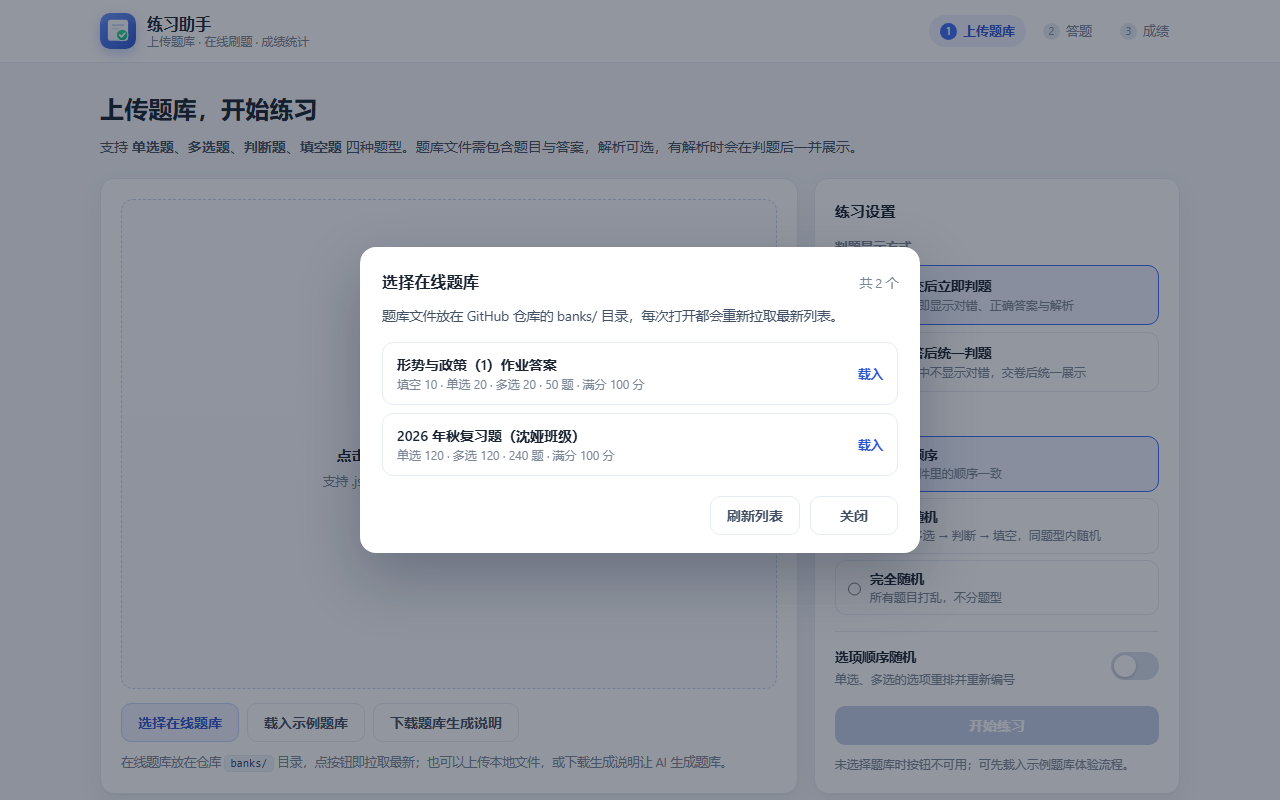
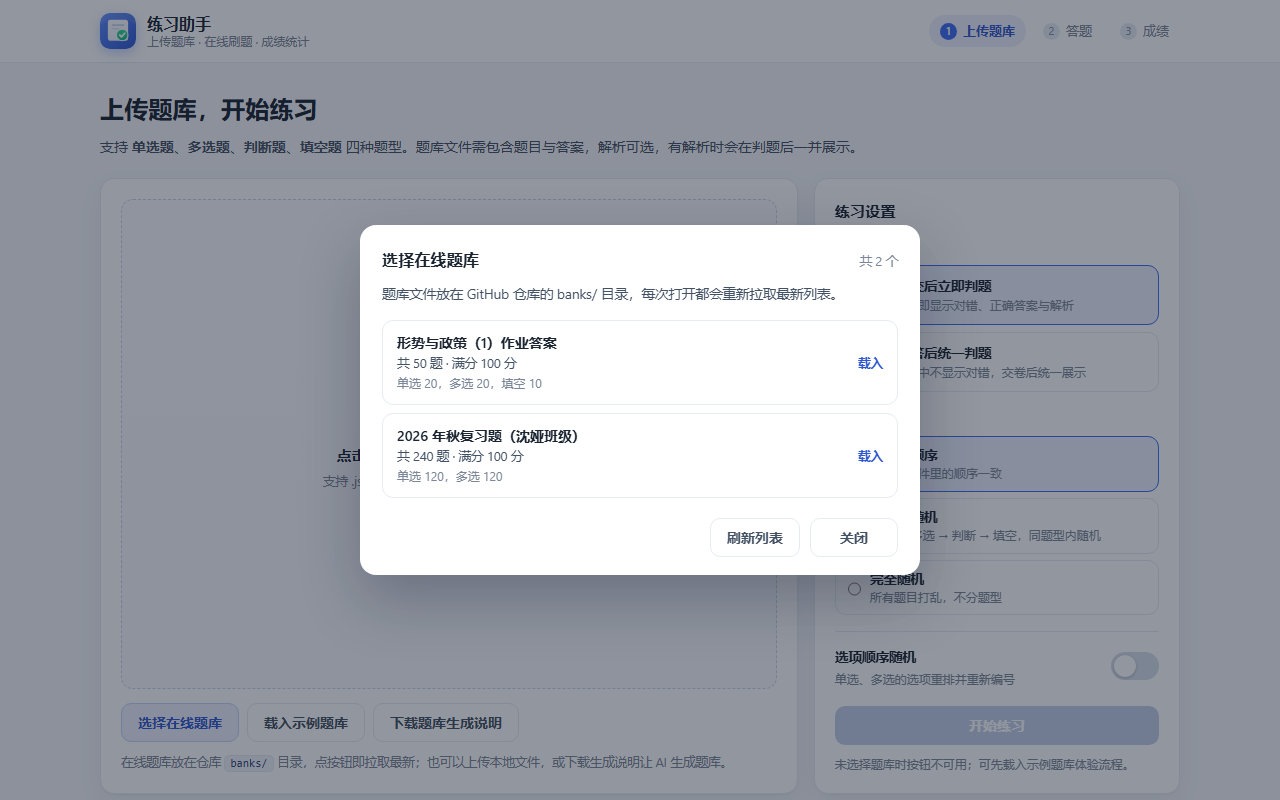
style: 在线题库列表改为两行，总量在前、题型分布在后
- 第一行「共 50 题 · 满分 100 分」，第二行「单选 20，多选 20，填空 10」
- index.json 改用结构化 types 字段，页面按单选→多选→判断→填空固定顺序拼接，不再依赖手写 desc
- 兼容旧清单：没有 types 时回退到 desc
- banks/README.md 同步字段说明，重拍面板截图

diff --git a/js/app.js b/js/app.js
@@ -225,6 +225,27 @@
     return list.filter((it) => it && it.file);
   }
 
+  // 题库列表里题型固定的展示顺序：选择题在前
+  const TYPE_BREAKDOWN = [['single', '单选'], ['multiple', '多选'], ['judge', '判断'], ['blank', '填空']];
+
+  /** 第一行总体量（共 N 题 · 满分），第二行题型分布 */
+  function onlineMeta(entry) {
+    const total = entry.count
+      ? '共 ' + entry.count + ' 题' + (entry.score ? ' · 满分 ' + entry.score + ' 分' : '')
+      : '';
+
+    let types = '';
+    if (entry.types && typeof entry.types === 'object') {
+      types = TYPE_BREAKDOWN
+        .filter(([key]) => Number(entry.types[key]) > 0)
+        .map(([key, label]) => label + ' ' + entry.types[key])
+        .join('，');
+    } else if (entry.desc) {
+      types = entry.desc; // 兼容只写了一句描述的旧清单
+    }
+    return { total: total, types: types };
+  }
+
   function renderOnlineList(items) {
     const box = $('#online-list');
     box.innerHTML = '';
@@ -238,13 +259,12 @@
       const btn = document.createElement('button');
       btn.type = 'button';
       btn.className = 'online-item';
-      const meta = [it.desc, it.count ? it.count + ' 题' : '', it.score ? '满分 ' + it.score + ' 分' : '']
-        .filter(Boolean)
-        .join(' · ');
+      const meta = onlineMeta(it);
       btn.innerHTML =
         '<span class="oi-main">' +
         '<span class="oi-name">' + esc(it.name || it.file) + '</span>' +
-        (meta ? '<span class="oi-meta">' + esc(meta) + '</span>' : '') +
+        (meta.total ? '<span class="oi-total">' + esc(meta.total) + '</span>' : '') +
+        (meta.types ? '<span class="oi-types">' + esc(meta.types) + '</span>' : '') +
         '</span><span class="oi-go">载入</span>';
       btn.addEventListener('click', () => loadOnlineBank(it, btn));
       box.appendChild(btn);

diff --git a/css/style.css b/css/style.css
@@ -283,9 +283,10 @@ body.modal-open { overflow: hidden; }
 .online-item:hover:not(:disabled) { border-color: var(--primary); background: var(--primary-soft); }
 .online-item:disabled { cursor: progress; opacity: .7; }
 
-.oi-main { display: flex; flex-direction: column; gap: 2px; flex: 1; min-width: 0; }
+.oi-main { display: flex; flex-direction: column; gap: 3px; flex: 1; min-width: 0; }
 .oi-name { font-size: 14px; font-weight: 600; color: var(--ink); }
-.oi-meta { font-size: 12px; color: var(--muted); }
+.oi-total { font-size: 12.5px; color: var(--ink-2); }
+.oi-types { font-size: 12px; color: var(--muted); line-height: 1.5; }
 .oi-go { flex: none; font-size: 12.5px; color: var(--primary-d); font-weight: 550; }
 
 .online-empty {

diff --git a/banks/README.md b/banks/README.md
@@ -11,9 +11,9 @@
 {
   "name": "显示在面板里的名字",
   "file": "2026-spring-math.json",
-  "desc": "单选 40 · 多选 10",
   "count": 50,
-  "score": 100
+  "score": 100,
+  "types": { "single": 40, "multiple": 10 }
 }
 ```
 
@@ -21,9 +21,10 @@
 | --- | --- | --- |
 | `name` | 是 | 面板里显示的名称，可以写中文 |
 | `file` | 是 | 本目录下的文件名，要带扩展名 |
-| `desc` | 否 | 题型分布之类的一句话描述 |
-| `count` | 否 | 题目数量，显示在列表里 |
-| `score` | 否 | 满分 |
+| `count` | 否 | 总题数，面板第一行显示「共 N 题」 |
+| `score` | 否 | 满分，跟在总题数后面 |
+| `types` | 否 | 题型分布，键为 `single` / `multiple` / `judge` / `blank`；面板第二行按单选 → 多选 → 判断 → 填空固定顺序展示 |
+| `desc` | 否 | 没写 `types` 时，可以改用一句话描述顶上 |
 | `updated` | 否 | `index.json` 顶层的更新日期，仅作记录 |
 
 3. 提交并推送。GitHub Pages 部署完成后，页面点「选择在线题库」就会看到新条目。
